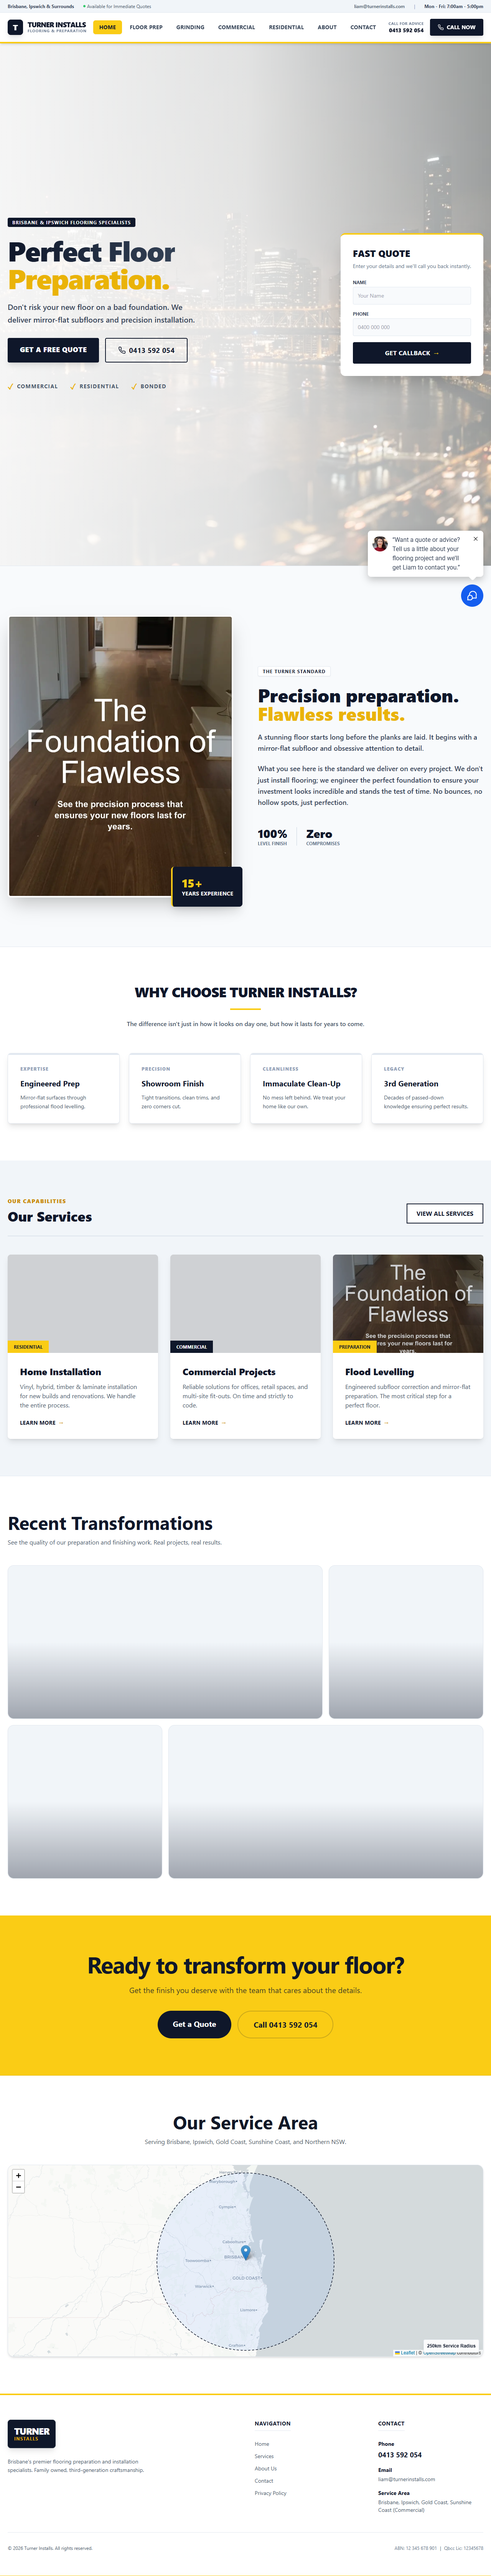
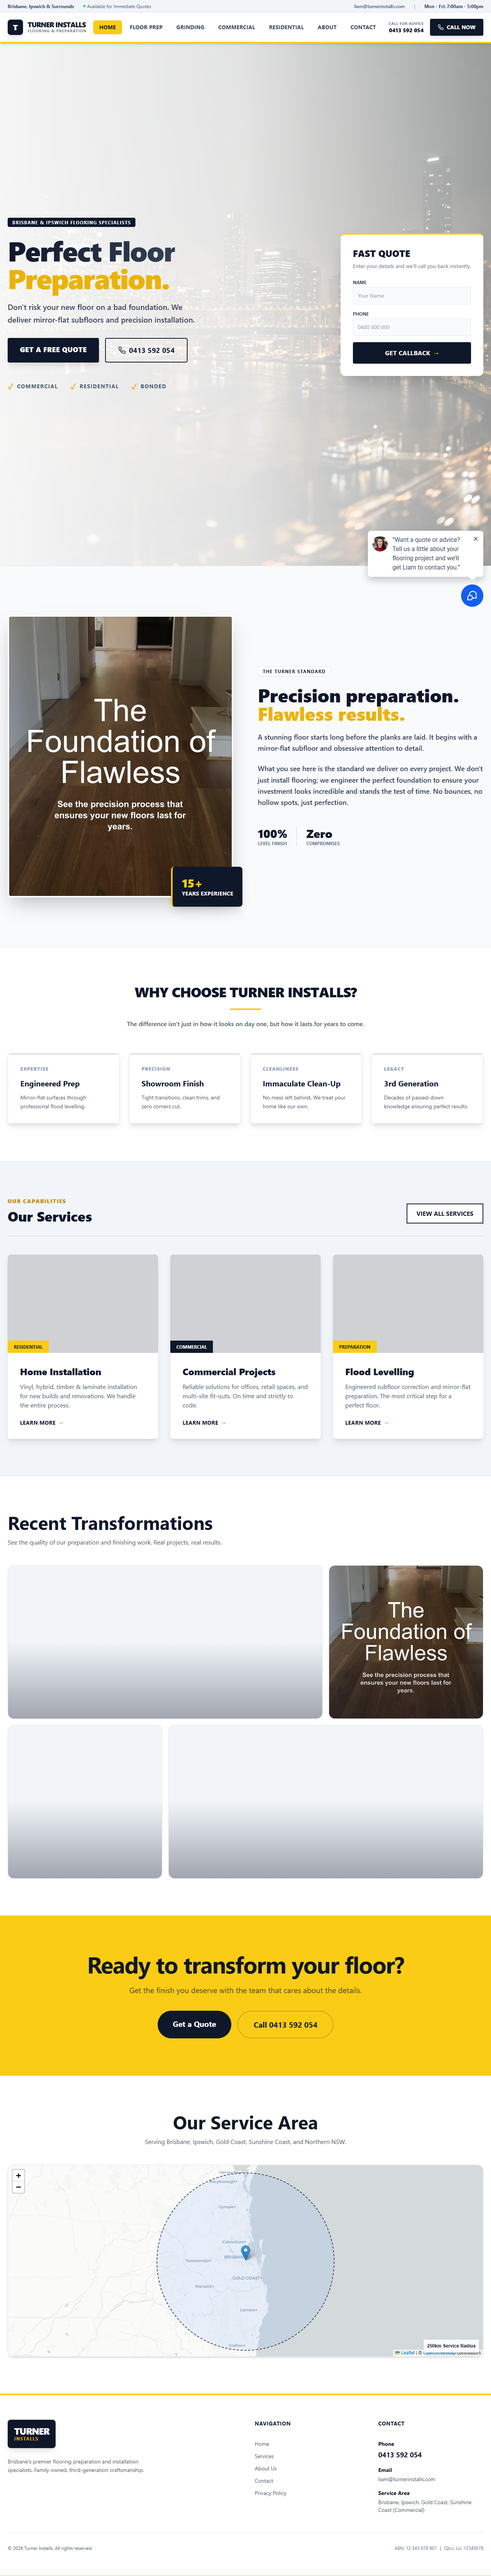
Swap images between Gallery and Flood Levelling card

Changed region(s): [[0.6562, 0.592, 1.0, 0.6855], [0.6562, 0.4674, 1.0, 0.5297]]

diff --git a/app/page.tsx b/app/page.tsx
@@ -260,7 +260,7 @@ export default function Home() {
             <Link href="/services/floor-preparation" className="group bg-white rounded-lg overflow-hidden shadow-lg hover:shadow-2xl transition-all duration-300 flex flex-col h-full">
               <div className="relative h-64 overflow-hidden">
                 <Image
-                  src="/images/resource_9P4V5A71bJ19uiTBiRV4_n.png"
+                  src="/images/new_prep_61981.jpg"
                   alt="Floor Preparation"
                   fill
                   className="object-cover group-hover:scale-110 transition-transform duration-700"
@@ -285,7 +285,7 @@ export default function Home() {
         title="Recent Transformations"
         images={[
           "/images/new_prep_62113.jpg",
-          "/images/new_prep_61981.jpg",
+          "/images/resource_9P4V5A71bJ19uiTBiRV4_n.png",
           "/images/new_prep_61801.jpg",
           "/images/new_prep_61734.jpg",
           "/images/new_prep_61961.jpg",
